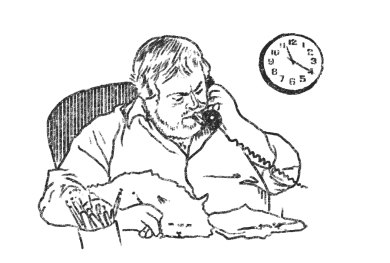
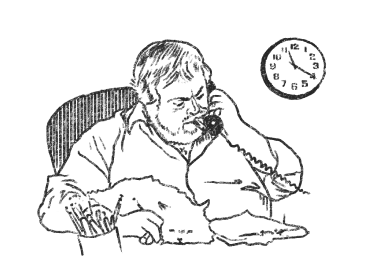
Added bank pic and fixed loan shark pic

Changed region(s): [[0.0923, 0.1217, 0.8, 0.9734], [0.6462, 0.1217, 0.8615, 0.3954]]

diff --git a/css/style.less b/css/style.less
@@ -706,7 +706,8 @@ h1, h2, h3, h4, h5 { margin: 0; }
 
 .overlay.deal:before,
 .overlay.loanShark:before,
-.overlay.travel:before {
+.overlay.travel:before,
+.overlay.bank:before {
     //background-color: var(--grey30);
     //background-blend-mode: multiply;
     background-size: 448px auto;
@@ -791,6 +792,14 @@ h1, h2, h3, h4, h5 { margin: 0; }
 @media (-webkit-min-device-pixel-ratio: 2), (min-resolution: 192dpi) {
     .overlay.travel:before {
         background-image: url('../img/bgTravel@2x.png');
+    }
+}
+
+// Bank
+.overlay.bank:before {  background-image: url('../img/bgBank.png'); background-position: center bottom 64px;  background-size: 413px auto; }
+@media (-webkit-min-device-pixel-ratio: 2), (min-resolution: 192dpi) {
+    .overlay.travel:before {
+        background-image: url('../img/bgBank@2x.png');
     }
 }
 

diff --git a/css/style.css b/css/style.css
@@ -760,7 +760,8 @@ h5 {
 }
 .overlay.deal:before,
 .overlay.loanShark:before,
-.overlay.travel:before {
+.overlay.travel:before,
+.overlay.bank:before {
   background-size: 448px auto;
   background-position: center bottom 30px;
   background-repeat: no-repeat;
@@ -858,6 +859,16 @@ h5 {
 @media (-webkit-min-device-pixel-ratio: 2), (min-resolution: 192dpi) {
   .overlay.travel:before {
     background-image: url('../img/bgTravel@2x.png');
+  }
+}
+.overlay.bank:before {
+  background-image: url('../img/bgBank.png');
+  background-position: center bottom 64px;
+  background-size: 413px auto;
+}
+@media (-webkit-min-device-pixel-ratio: 2), (min-resolution: 192dpi) {
+  .overlay.travel:before {
+    background-image: url('../img/bgBank@2x.png');
   }
 }
 .popup {
